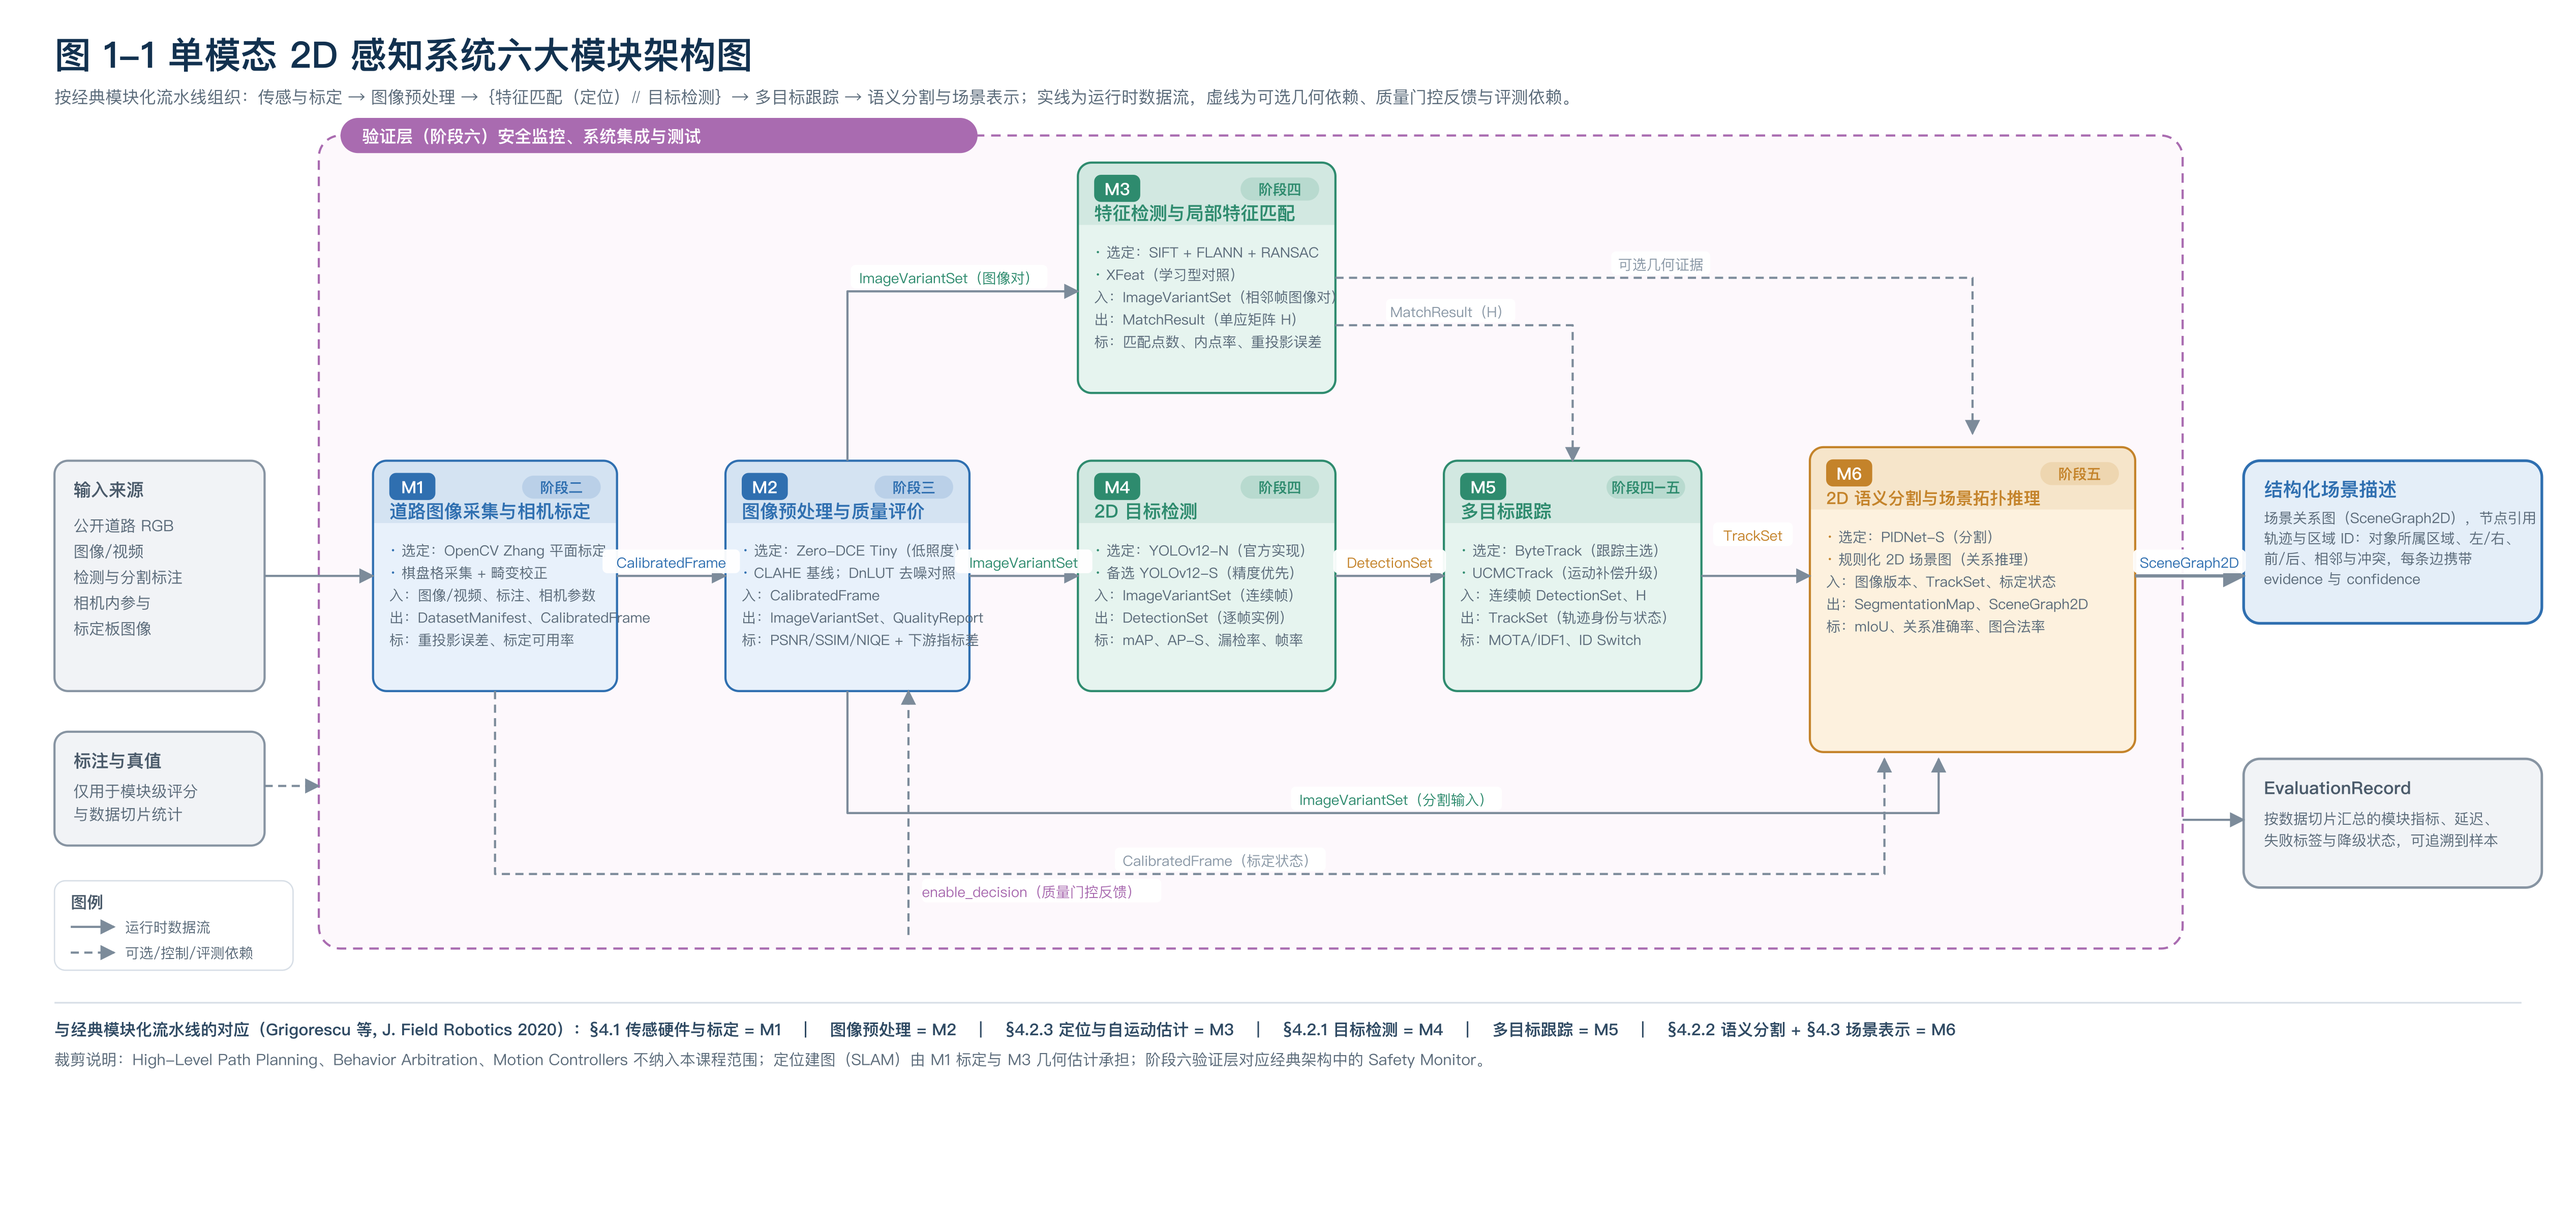
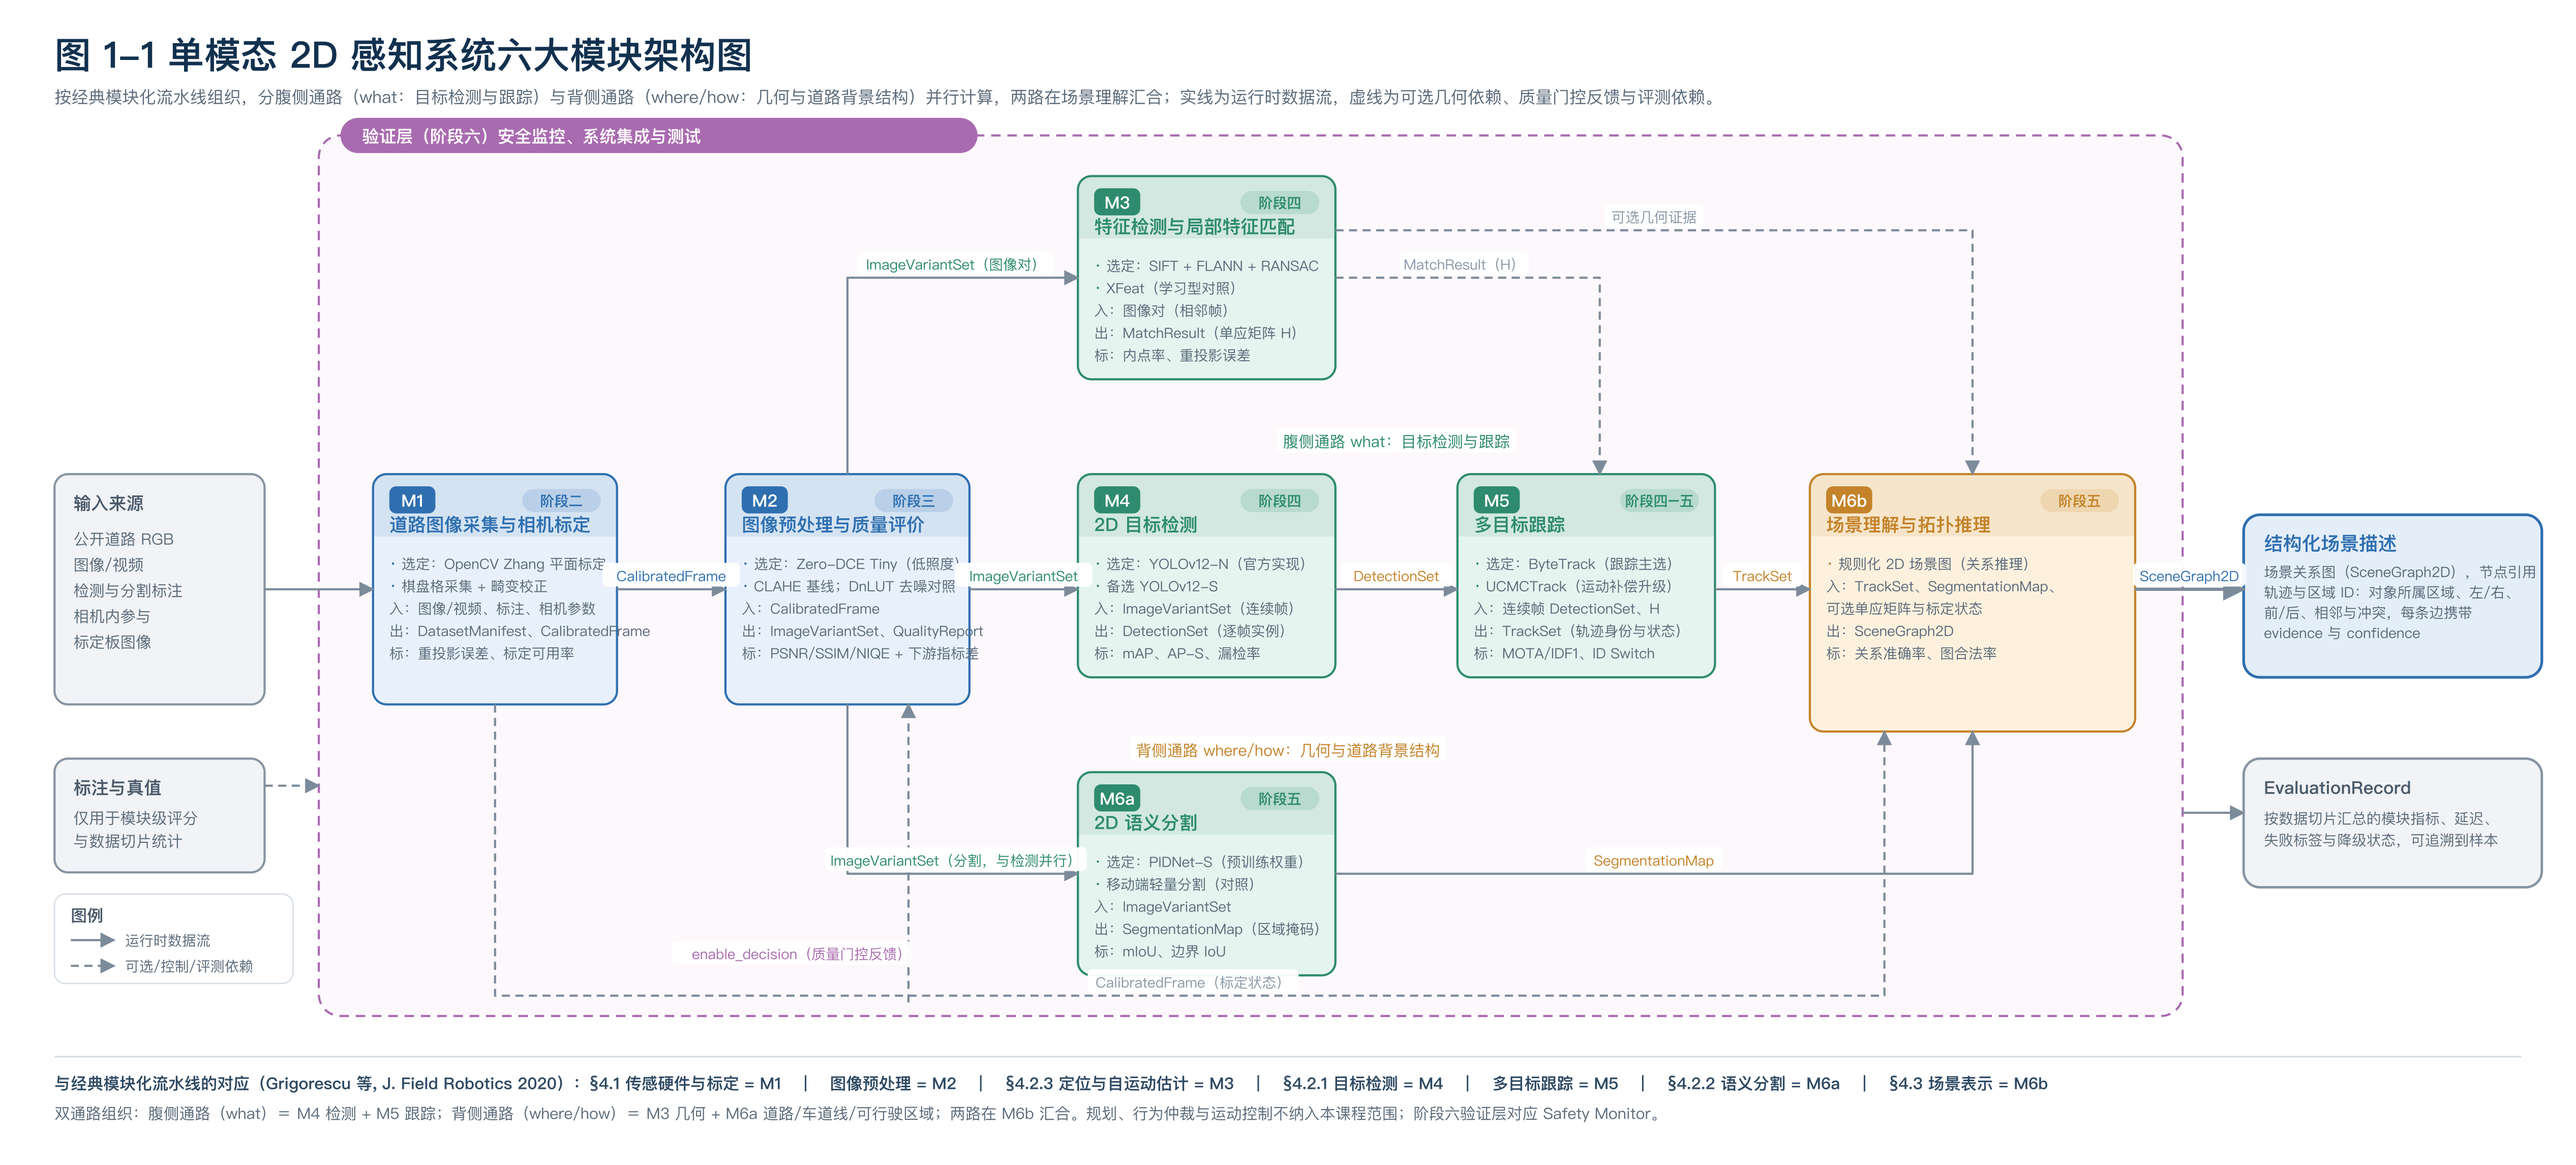
docs: 架构图改为腹侧/背侧双通路，M6 拆出并行语义分割
- 图 1-1 调整为：M2 之后三支并行（M3 几何 / M4 检测 / M6a 语义分割），
  腹侧通路（检测+跟踪）与背侧通路（几何+道路背景结构）在 M6b 场景理解汇合
- docs/figures/README.md 补充双通路说明、M6a/M6b 拆分与修订记录
- 根 README 同步模块—通路对照表与数据流

diff --git a/docs/figures/README.md b/docs/figures/README.md
@@ -3,7 +3,7 @@
 | 文件 | 说明 |
 |---|---|
 | `fig1-1-2d-perception-architecture.svg` | 矢量源文件（可用 Illustrator / Inkscape / 浏览器打开编辑） |
-| `fig1-1-2d-perception-architecture.png` | 位图，5067 × 2373，可直接插入报告与 PPT |
+| `fig1-1-2d-perception-architecture.png` | 位图，5067 × 2293，可直接插入报告与 PPT |
 
 ## 六个模块与选定模型
 
@@ -11,18 +11,30 @@
 |---|---|---|---|---|
 | M1 道路图像采集与相机标定 | 阶段二 | §4.1 传感硬件与标定 | OpenCV Zhang 平面标定 + cv2.undistort | DatasetManifest、CalibratedFrame |
 | M2 图像预处理与质量评价 | 阶段三 | 感知前端预处理 | Zero-DCE Tiny + CLAHE | ImageVariantSet、QualityReport |
-| M3 特征检测与局部特征匹配 | 阶段四 | §4.2.3 定位与自运动估计 | SIFT + FLANN + RANSAC | MatchResult |
+| M3 特征检测与局部特征匹配 | 阶段四 | §4.2.3 定位与自运动估计（几何特征提取） | SIFT + FLANN + RANSAC | MatchResult |
 | M4 2D 目标检测 | 阶段四 | §4.2.1 目标检测 | YOLOv12-N | DetectionSet |
 | M5 多目标跟踪 | 阶段四–五 | 多目标跟踪 | ByteTrack + UCMCTrack | TrackSet |
-| M6 2D 语义分割与场景拓扑推理 | 阶段五 | §4.2.2 语义分割 + §4.3 场景表示 | PIDNet-S + 规则化 2D 场景图 | SegmentationMap、SceneGraph2D |
+| M6a 2D 语义分割 | 阶段五 | §4.2.2 语义分割 | PIDNet-S | SegmentationMap |
+| M6b 场景理解与拓扑推理 | 阶段五 | §4.3 场景表示 | 规则化 2D 场景图 | SceneGraph2D |
 | 验证层 | 阶段六 | Safety Monitor | 切片评测 + 失败标签 + 降级策略 | EvaluationRecord |
 
-数据流：`输入 → M1 → M2 →｛M3 ∥ M4｝→ M5 → M6 → 结构化场景描述`；阶段六为环绕六个模块的验证层，按数据切片汇总指标、延迟与失败标签，并把质量门控结论回注 M2。
+M6a 与 M6b 同属第六个模块（语义分割与场景理解）的两个子块：M6a 直接消费 M2 的图像版本，与 M4 检测**并行**；M6b 消费 M5 的轨迹、M6a 的区域掩码与 M3 的几何证据。
+
+## 双通路组织（腹侧 / 背侧）
+
+| 通路 | 组成 | 回答的问题 |
+|---|---|---|
+| 腹侧通路 what | M4 2D 目标检测 + M5 多目标跟踪 | 有什么目标、它们如何随时间移动 |
+| 背侧通路 where/how | M3 特征检测与匹配（几何与自运动估计）+ M6a 2D 语义分割（道路、可行驶区域、车道标线等背景结构） | 自车如何运动、道路与车道线在哪里 |
+| 汇合点 | M6b 场景理解与拓扑推理 | 对象—区域隶属、前后左右、相邻与冲突 |
+
+数据流：`输入 → M1 → M2 →｛M3 ∥ M4 ∥ M6a｝→ M5（腹侧）→ M6b（两路汇合）→ 结构化场景描述`；阶段六为环绕六个模块的验证层，按数据切片汇总指标、延迟与失败标签，并把质量门控结论回注 M2。
 
 ## 几条约定
 
-- 实线为运行时数据流，虚线为可选几何依赖（M3 的单应矩阵用于 M5 相机运动补偿与 M6 几何证据）与评测依赖。
+- 实线为运行时数据流，虚线为可选几何依赖（M3 的单应矩阵用于 M5 相机运动补偿与 M6b 几何证据）与评测依赖。
 - 模块之间只传字段级结构化契约，不传高维特征张量；接口字段与不变量见阶段一《架构决策文档》第六节。
+- 需要区分：本项目的"特征提取"指 **M3 的局部特征（SIFT）检测与匹配**，用于几何与自运动估计，不是检测与分割共享的 backbone 特征——这是为模块可替换性做的取舍。
 - 裁剪说明：规划、行为仲裁与运动控制不在课程范围内；经典架构中的定位建图（SLAM）由 M1 标定与 M3 几何估计承担。
 
 ## 依据
@@ -34,5 +46,6 @@
 | 日期 | 说明 |
 |---|---|
 | 2026-09-15 | 初版：按经典模块化流水线确定六个模块、模型选型与数据流，用于阶段一评审 |
+| 2026-09-16 | 按腹侧/背侧双通路调整：M6 拆出与 M4 并行的 M6a 语义分割，M6b 作为两路汇合的场景理解；补充通路标注与经典对应说明 |
 
 > 本图后续可能随实现与实验结论调整；修改时请同步更新本说明与仓库 README 中的引用。

diff --git a/README.md b/README.md
@@ -1,23 +1,26 @@
 # 2DUPS · 单模态 2D 感知系统
 
-《机器视觉》课程项目（2024 级）的工程仓库。目标是在**公开道路 RGB 图像 / 视频**上离线复现一条完整的单模态 2D 感知流程：从相机标定、图像预处理，到目标检测与多目标跟踪、语义分割与场景拓扑推理。
+《机器视觉》课程项目（2024 级）的工程仓库。目标是在**公开道路 RGB 图像 / 视频**上离线复现一条完整的单模态 2D 感知流程：从相机标定、图像预处理，到目标检测与多目标跟踪、语义分割与场景理解。
 
-项目按领域经典的**模块化流水线**组织，阶段六作为验证层（对应经典架构中的 Safety Monitor）。
+项目按领域经典的**模块化流水线**组织，并分为两条并行通路：**腹侧通路（what）**负责目标检测与跟踪，**背侧通路（where/how）**负责自车几何与道路背景结构；两路在场景理解汇合。阶段六作为验证层（对应经典架构中的 Safety Monitor）。
 
 ## 系统架构（图 1-1）
 
 ![图 1-1 单模态 2D 感知系统六大模块架构图](docs/figures/fig1-1-2d-perception-architecture.png)
 
-数据流：`输入 → M1 标定 → M2 预处理 →｛M3 定位匹配 ∥ M4 目标检测｝→ M5 多目标跟踪 → M6 语义分割与场景拓扑 → 结构化场景描述`
+数据流：`输入 → M1 标定 → M2 预处理 →｛M3 几何 ∥ M4 检测 ∥ M6a 语义分割｝→ M5 跟踪 → M6b 场景理解 → 结构化场景描述`
 
-| 模块 | 选定模型 | 输出接口 |
-|---|---|---|
-| M1 道路图像采集与相机标定 | OpenCV Zhang 平面标定 + cv2.undistort | DatasetManifest、CalibratedFrame |
-| M2 图像预处理与质量评价 | Zero-DCE Tiny + CLAHE | ImageVariantSet、QualityReport |
-| M3 特征检测与局部特征匹配 | SIFT + FLANN + RANSAC | MatchResult |
-| M4 2D 目标检测 | YOLOv12-N | DetectionSet |
-| M5 多目标跟踪 | ByteTrack + UCMCTrack | TrackSet |
-| M6 2D 语义分割与场景拓扑推理 | PIDNet-S + 规则化 2D 场景图 | SegmentationMap、SceneGraph2D |
+| 模块 | 通路 | 选定模型 | 输出接口 |
+|---|---|---|---|
+| M1 道路图像采集与相机标定 | — | OpenCV Zhang 平面标定 + cv2.undistort | DatasetManifest、CalibratedFrame |
+| M2 图像预处理与质量评价 | — | Zero-DCE Tiny + CLAHE | ImageVariantSet、QualityReport |
+| M3 特征检测与局部特征匹配 | 背侧 | SIFT + FLANN + RANSAC | MatchResult |
+| M4 2D 目标检测 | 腹侧 | YOLOv12-N | DetectionSet |
+| M5 多目标跟踪 | 腹侧 | ByteTrack + UCMCTrack | TrackSet |
+| M6a 2D 语义分割 | 背侧 | PIDNet-S | SegmentationMap |
+| M6b 场景理解与拓扑推理 | 汇合 | 规则化 2D 场景图 | SceneGraph2D |
+
+M6a 与 M4 的输入同为 M2 输出的图像版本，两者并行计算；M6b 消费 M5 的轨迹、M6a 的区域与 M3 的几何证据，输出对象—区域关系图。
 
 矢量源文件与逐模块说明见 [`docs/figures/`](docs/figures/)。
 
